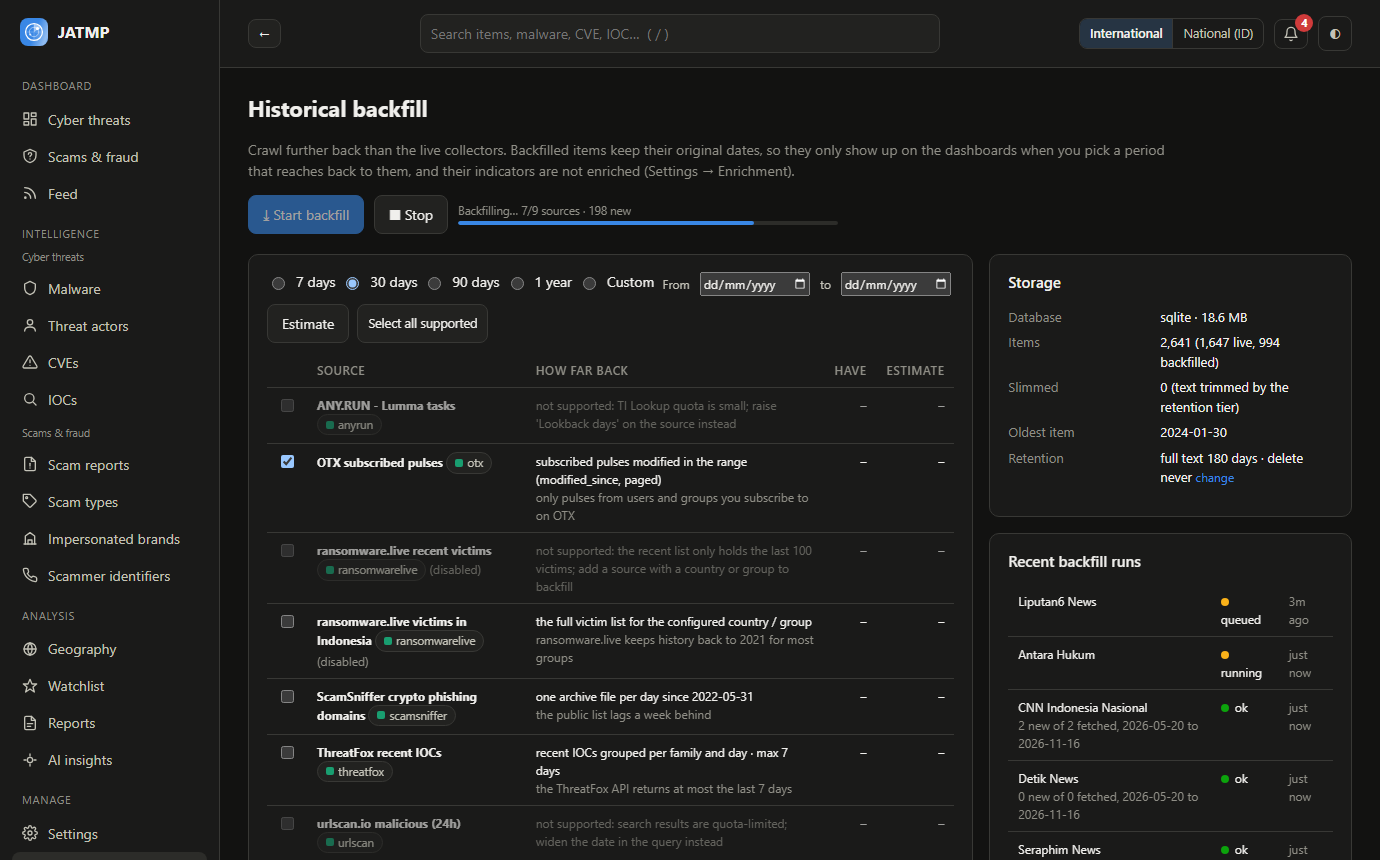
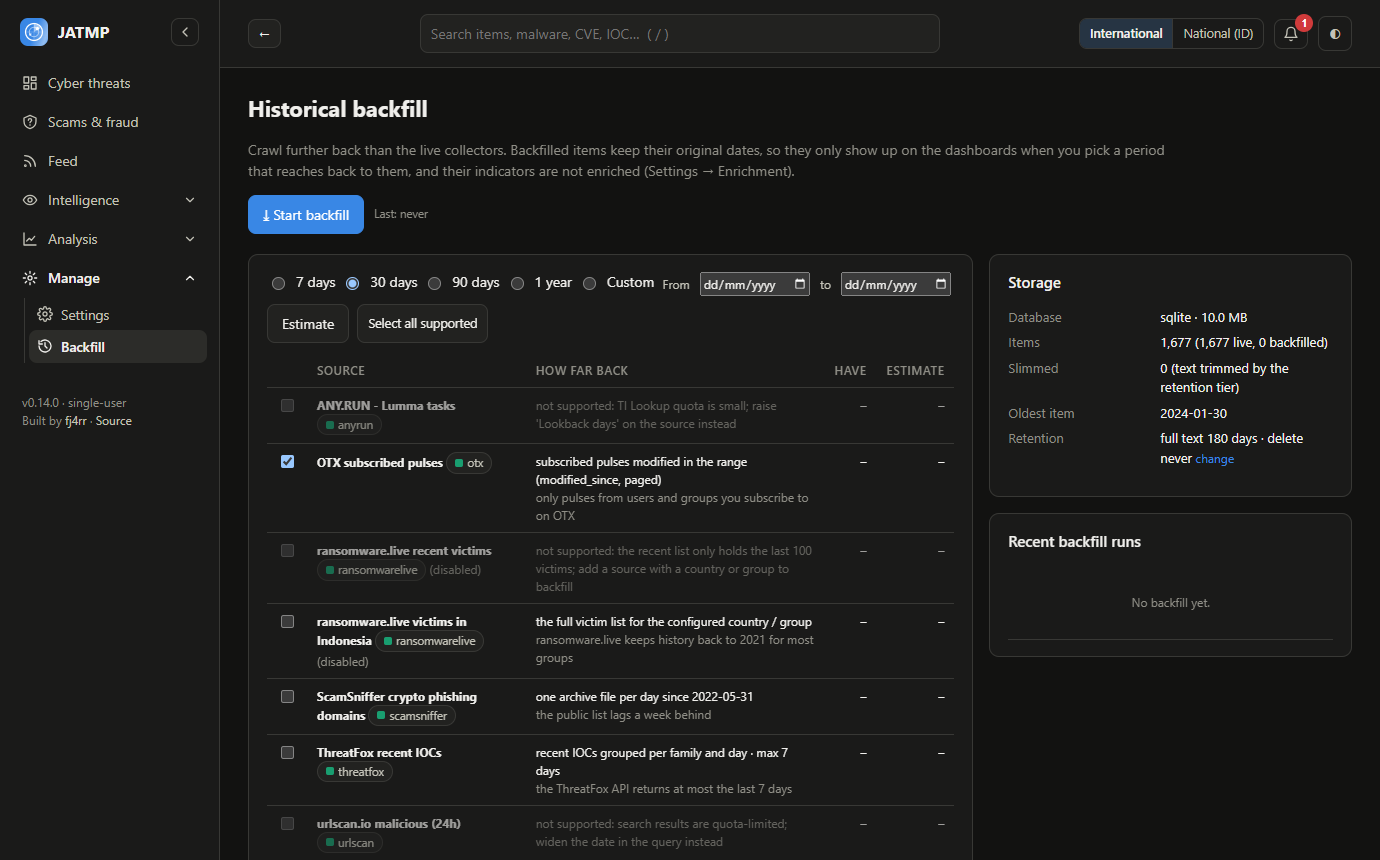
JATMP: sync with release 0.14.0 and its docs
Bump to 0.14.0, turn the unreleased section into the 0.14.0 release
notes with the docs review (Sharing & API tab, IOC page buttons) and a
link to the upgrade notes, and replace all 18 screenshots with the
ones retaken for the new menu and layout.

Claude-Session: https://claude.ai/code/session_01LUdpnas3idqWnD784fijH5

diff --git a/src/content/projects/jatmp.md b/src/content/projects/jatmp.md
@@ -5,8 +5,8 @@ description: "A self-hosted platform for monitoring cyber threats and online fra
 repo: "https://github.com/fj4rr/just-another-threat-monitoring-platform"
 docs: "https://fj4rr.github.io/just-another-threat-monitoring-platform/"
 stack: ["Python 3.11+", "FastAPI", "SQLAlchemy", "SQLite / PostgreSQL", "Jinja2", "APScheduler", "Docker"]
-status: "Active · v0.13.1"
-version: "0.13.1"
+status: "Active · v0.14.0"
+version: "0.14.0"
 license: "MIT (pyproject.toml)"
 featured: true
 order: 1
@@ -26,7 +26,7 @@ highlights:
   - "Single process with SQLite, no JavaScript build step and nothing loaded from a CDN"
 screenshots:
   - { src: "/images/projects/jatmp/dashboard-overview.png", caption: "Cyber threats dashboard" }
-  - { src: "/images/projects/jatmp/dashboard.png", caption: "Dashboard: period switch, International / National (ID) switch, threat radar with families, CVEs and actors, globe of the top 10 target countries and KPI tiles" }
+  - { src: "/images/projects/jatmp/dashboard.png", caption: "Dashboard: the collapsible, grouped menu, period switch, International / National (ID) switch, threat radar with families, CVEs and actors, globe of the top 10 target countries and KPI tiles" }
   - { src: "/images/projects/jatmp/dashboard-widgets.png", caption: "Trending malware, CVEs (CISA KEV, CVSS, EPSS, risk-weighted priority) and threat actors over the chosen period" }
   - { src: "/images/projects/jatmp/dashboard-sectors.png", caption: "Top 5 trending over time next to the critical infrastructure sectors of the period" }
   - { src: "/images/projects/jatmp/fraud.png", caption: "Scams & fraud dashboard: reports over time by scam type, most targeted countries, trending scam types, impersonated brands and the latest identifiers" }
@@ -39,7 +39,7 @@ screenshots:
   - { src: "/images/projects/jatmp/entity.png", caption: "Malware family page: timeline, coverage per source, deep dive, graph, co-mentioned entities" }
   - { src: "/images/projects/jatmp/iocs.png", caption: "IOC table with verdicts, hosting countries, attributed families and where each indicator was seen" }
   - { src: "/images/projects/jatmp/malware.png", caption: "Malware families: unified table with trend score, related entities and pagination" }
-  - { src: "/images/projects/jatmp/cves.png", caption: "CVE list sorted by EPSS, with KEV badges and co-mentioned families" }
+  - { src: "/images/projects/jatmp/cves.png", caption: "CVE list sorted by EPSS, with KEV badges, co-mentioned families and the New threats button" }
   - { src: "/images/projects/jatmp/backfill.png", caption: "Historical backfill: per-source reach and method, estimates and storage statistics" }
   - { src: "/images/projects/jatmp/settings.png", caption: "AI settings: local or cloud, vendor presets and a live model list" }
   - { src: "/images/projects/jatmp/reports.png", caption: "Report builder: period, content and format for the Threat Intel Findings document" }
@@ -64,17 +64,20 @@ It runs as a single process with SQLite by default. There is no JavaScript build
 - **History**: backfill up to a year back, retention tiers, full-text search and optional PostgreSQL.
 - **Operation**: single-user or multi-user with roles, live job progress, a notification center, a side preview on every table, dark and light themes and a phone layout.
 
-## Since 0.13.1 (on main, not yet released)
+## Latest release: 0.14.0
+
+Easier navigation, with every screenshot retaken for it:
 
 - **Feed filters stay** when you pick another one, for the whole session, until *Clear filters*; a chip under the filter bar removes a single entity, country or province.
 - **Tidier menu**: Cyber threats, Scams & fraud and Feed on top, Intelligence, Analysis and Manage as dropdowns, and the whole menu collapses to an icon rail.
 - **New threats** button on the Intelligence lists (malware, threat actors, CVEs, IOCs, scam types and impersonated brands) keeps only what was first seen in the chosen period.
 - **Fixes**: the default urlscan.io source now searches `task.tags:malicious`, which free accounts allow (the old query failed with 403), and two enrichment failures are gone (a duplicate entity link and a crash in the final summary).
 - Higher minimum versions of `anthropic`, `feedparser`, `python-docx`, `psycopg` and `telethon`.
+- Docs reviewed against the release: the settings tab is now *Sharing & API*, and the IOC page's *Enrichment* panel, *Run enrichment batch* and *Copy visible* buttons are described.
 
-See [Using JATMP](https://fj4rr.github.io/just-another-threat-monitoring-platform/using-jatmp/) for the new menu, filters and *New threats* button.
+Upgrade notes are in [Upgrading](https://fj4rr.github.io/just-another-threat-monitoring-platform/upgrading/); see [Using JATMP](https://fj4rr.github.io/just-another-threat-monitoring-platform/using-jatmp/) for the new menu, filters and *New threats* button.
 
-## Latest release: 0.13.1
+## Release 0.13.1
 
 Rule tuning from the first quality report. Every fix comes with the case that motivated it and counter-examples that must not change:
 
